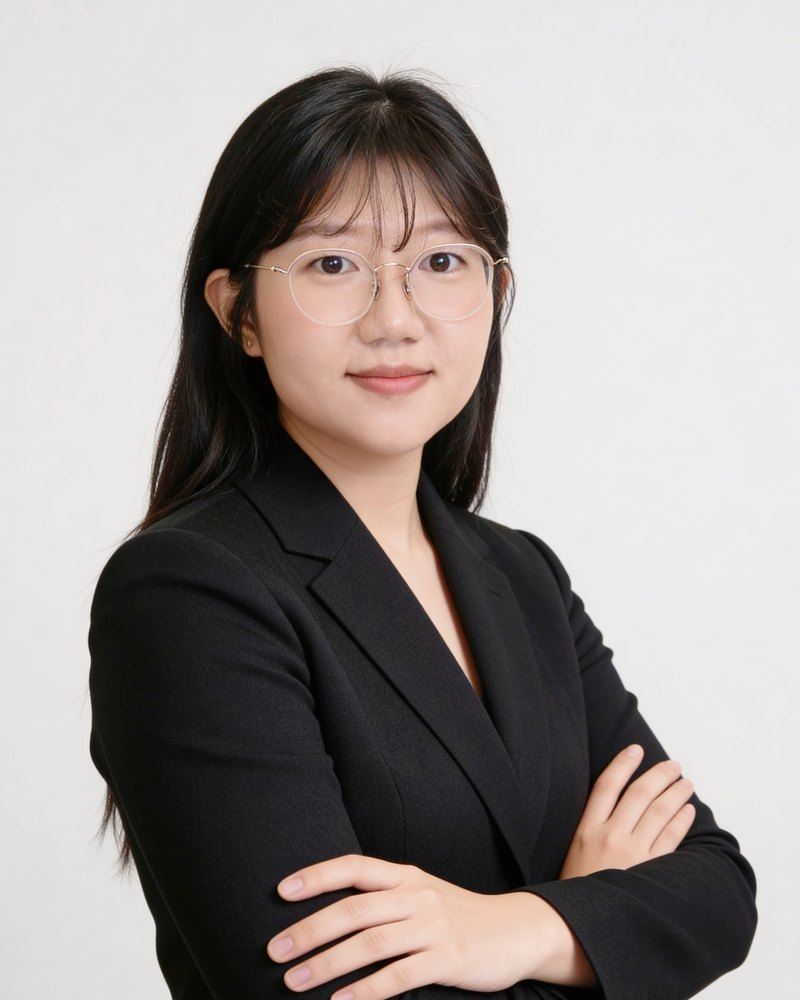
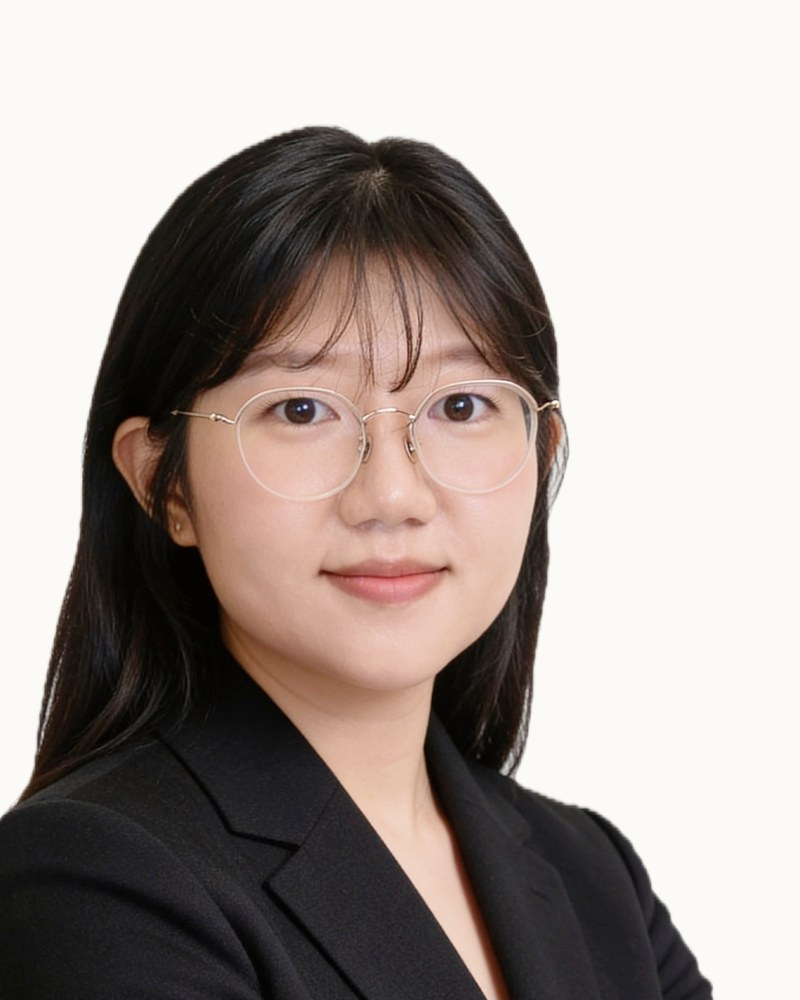
Tighter head-and-shoulders portrait, real LinkedIn URL
Portrait is the cutout composited onto the page background so it sits on
the page rather than in a box.

diff --git a/index.html b/index.html
@@ -645,7 +645,7 @@
       <li><a href="https://scholar.google.com/citations?user=fEqpddMAAAAJ&amp;hl=en" target="_blank" rel="noopener">Google Scholar</a></li>
       <li><a href="https://orcid.org/0009-0002-6958-9522" target="_blank" rel="noopener">ORCID</a></li>
       <li><a href="https://www.education.udel.edu/grad-student/yubin-jang/" target="_blank" rel="noopener">UD Profile</a></li>
-      <li><a href="https://www.linkedin.com/" target="_blank" rel="noopener">LinkedIn</a></li>
+      <li><a href="https://www.linkedin.com/in/ybjang" target="_blank" rel="noopener">LinkedIn</a></li>
     </ul>
 
     <p class="contact__where reveal">
